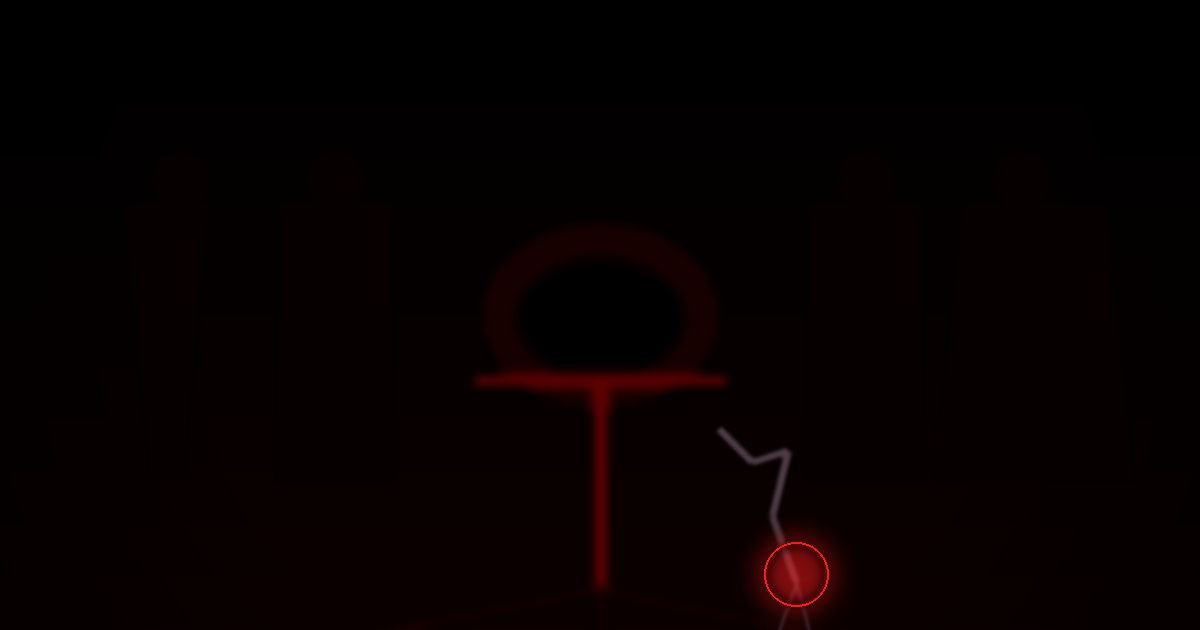
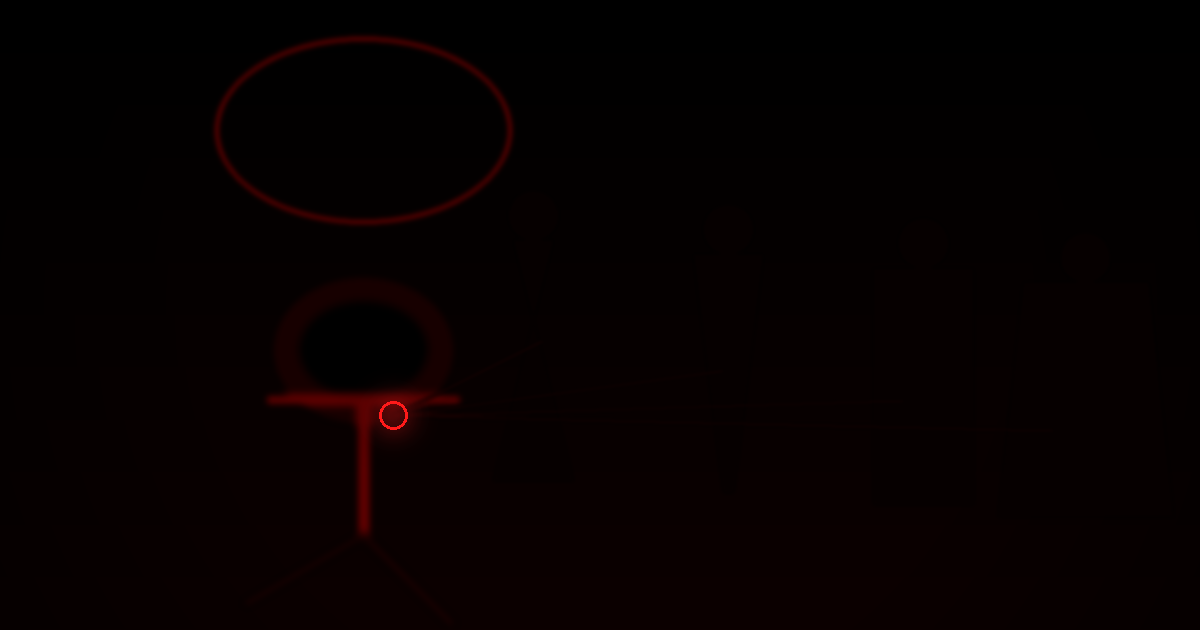
covers: mode A cover discipline - demo_shift gate, object_type repeat gate, kast object rebuilt from demo

diff --git a/feed/image_gen.py b/feed/image_gen.py
@@ -769,69 +769,58 @@ def render_object(concept: dict, seed: int, attempt: int = 0):
         g3.rectangle((cx - 34, cy - 132, cx + 6, cy - 108), fill=HOT_RED + (255,))
         img.alpha_composite(g3.layer)
 
-    elif 'тен' in obj:
-        # Разлом (Production Contract v1.0, направление A+D): микрофон стоит,
-        # но кабель перерезан и висит обрывком — «голос есть, связи нет».
-        # Четыре тени-характера остаются НЕЙТРАЛЬНЫМИ (каст ролей Edison Multi-Cast),
-        # единственный красный акцент — тонкое кольцо на ОБРЫВЕ кабеля, не на объекте:
-        # взгляд ищет смысл там, где связь порвана.
-        for i, (ox, lean) in enumerate(((-420, -28), (-265, 0), (265, 0), (420, 28))):
-            sg = RGBA()
-            gx = W / 2 + ox
-            top = 150
-            bot = 480
-            sx = gx - 58
-            ex = gx + 58 + lean
-            sg.polygon([(sx, top + 52), (ex, top + 52),
-                        (ex + lean, bot), (sx - lean, bot)], fill=SILH + (255,))
-            sg.ellipse(_obj_atom(gx - 30, top, 60, 60), fill=SILH + (255,))
-            sg.blur(2).alpha(0.95)
-            img.alpha_composite(sg.layer)
-        # микрофон: главный объект, в тёмно-красной гамме — НЕ должен давать
-        # ярких красных пикселей (по контракту красный сигнал допустим только
-        # в одном акценте). Все части объекта R<120; 255-красное — только кольцо на обрыве.
+    elif 'тен' in obj or 'роль' in obj:
+        # Каст ролей (mode A, объект из demo Edison Multi-Cast): микрофон слева,
+        # над ним компактное кольцо света — голос делится на роли. Четыре одинаковые
+        # тени-роли по правую половину веером от микрофона; ОДНА ближе (говорит),
+        # три дальше (слушают). Единственный красный акцент — точка разделения.
+        # Микрофон (слева от центра, R<120):
+        mx, my = cx - 230, cy + 10
         g = RGBA()
-        # колпак микрофона
-        g.ellipse(_obj_atom(cx - 120, cy - 220, 240, 190), fill=DEEP_RED + (255,))
-        g.ellipse(_obj_atom(cx - 84, cy - 182, 168, 120), fill=VOID + (255,))
-        # держатель
-        g.line([(cx - 128, cy - 60), (cx + 128, cy - 60)], SIGNAL_RED + (255,), width=14)
-        # стойка
-        g.line([(cx, cy - 60), (cx, cy + 150)], SIGNAL_RED + (255,), width=18)
-        # тренога
-        g.line([(cx, cy + 150), (cx - 260, cy + 200)], DEEP_RED + (255,), width=12)
-        g.line([(cx, cy + 150), (cx + 260, cy + 200)], DEEP_RED + (255,), width=12)
-        g.line([(cx, cy + 150), (cx, cy + 230)], DEEP_RED + (255,), width=12)
-        g.blur(5).alpha(0.95)
+        g.ellipse(_obj_atom(mx - 92, my - 170, 184, 150), fill=DEEP_RED + (255,))
+        g.ellipse(_obj_atom(mx - 64, my - 144, 128, 96), fill=VOID + (255,))
+        g.line([(mx - 98, my - 46), (mx + 98, my - 46)], SIGNAL_RED + (255,), width=12)
+        g.line([(mx, my - 46), (mx, my + 90)], SIGNAL_RED + (255,), width=16)
+        g.line([(mx, my + 90), (mx - 120, my + 160)], DEEP_RED + (255,), width=10)
+        g.line([(mx, my + 90), (mx + 90, my + 180)], DEEP_RED + (255,), width=10)
+        g.blur(4).alpha(0.95)
         img.alpha_composite(g.layer)
-        # перерезанный кабель: выходит из-за правого края микрофона, извивается вниз,
-        # обрывается; с обрыва свисают два тонких конца (рваные жилы)
-        cable = (80, 62, 74)
-        cg = RGBA()
-        cg.line([(cx + 118, cy - 12), (cx + 152, cy + 22)], cable + (255,), width=9)
-        cg.line([(cx + 152, cy + 22), (cx + 188, cy + 10)], cable + (255,), width=9)
-        cg.line([(cx + 188, cy + 10), (cx + 172, cy + 76)], cable + (255,), width=9)
-        cg.line([(cx + 172, cy + 76), (cx + 196, cy + 142)], cable + (255,), width=9)
-        # обрыв: два живых конца падают ниже точки разрыва
-        cg.line([(cx + 196, cy + 142), (cx + 210, cy + 196)], cable + (255,), width=4)
-        cg.line([(cx + 196, cy + 142), (cx + 178, cy + 192)], cable + (255,), width=4)
-        cg.blur(2).alpha(0.97)
-        img.alpha_composite(cg.layer)
-        # единственный красный акцент: тонкое кольцо на точке разрыва кабеля
-        rb = (cx + 196, cy + 134)
-        # мягкое свечение-ореол вокруг разлома (красный = только здесь)
-        rg0 = RGBA()
-        rg0.ellipse(_obj_atom(rb[0] - 46, rb[1] - 46, 92, 92), fill=HOT_RED + (255,))
-        rg0.blur(16).alpha(0.5)
-        img.alpha_composite(rg0.layer)
+        # компактное кольцо света над микрофоном (широкий венок — деталь-различитель)
         rg = RGBA()
-        rg.ellipse(_obj_atom(rb[0] - 32, rb[1] - 32, 64, 64),
-                   outline=SIGNAL_RED + (255,), width=6)
+        rg.ellipse(_obj_atom(mx - 150, my - 410, 300, 190),
+                   outline=SIGNAL_RED + (255,), width=8)
         rg.blur(3).alpha(0.85)
         img.alpha_composite(rg.layer)
+        # четыре тени-роли справа, веером (одинакового размера)
+        speakers = ((-30, -60), (150, -30), (330, 0), (480, 25))
+        for i, (ox, lean) in enumerate(speakers):
+            sg = RGBA()
+            gx = cx + ox
+            top = 190 + i * 14
+            bot = 480 + i * 12
+            sx = gx - 50
+            ex = gx + 50 + lean
+            sg.polygon([(sx, top + 50), (ex, top + 50),
+                        (ex + lean, bot), (sx - lean, bot)], fill=SILH + (255,))
+            sg.ellipse(_obj_atom(gx + lean / 2 - 25, top, 50, 50), fill=SILH + (255,))
+            sg.blur(2).alpha(0.95)
+            img.alpha_composite(sg.layer)
+        # лучи-роли: от точки разделения к каждой тени (R<120)
+        g2 = RGBA()
+        for i, (ox, lean) in enumerate(speakers):
+            gx = cx + ox
+            g2.line([(mx + 30, my - 30), (gx - 20, 340 + i * 30)], DEEP_RED + (255,), width=4)
+        g2.blur(2).alpha(0.95)
+        img.alpha_composite(g2.layer)
+        # единственный красный акцент: точка, где голос разделяется на роли
+        bp = (mx + 30, my - 30)
+        rg0 = RGBA()
+        rg0.ellipse(_obj_atom(bp[0] - 26, bp[1] - 26, 52, 52), fill=HOT_RED + (255,))
+        rg0.blur(16).alpha(0.5)
+        img.alpha_composite(rg0.layer)
         rgb = RGBA()
-        rgb.ellipse(_obj_atom(rb[0] - 32, rb[1] - 32, 64, 64),
-                    outline=HOT_RED + (255,), width=2)
+        rgb.ellipse(_obj_atom(bp[0] - 14, bp[1] - 14, 28, 28),
+                    outline=HOT_RED + (255,), width=3)
         img.alpha_composite(rgb.layer)
 
     elif 'микрофон' in obj or 'стойк' in obj:

diff --git a/publisher.py b/publisher.py
@@ -102,7 +102,8 @@ def load_items():
     return items
 
 
-REQ_CONCEPT_FIELDS = ('headline', 'demo', 'explain', 'consequence', 'visual_object', 'cover_prompt')
+REQ_CONCEPT_FIELDS = ('headline', 'demo', 'explain', 'consequence', 'visual_object', 'cover_prompt',
+                      'demo_shift', 'object_type', 'cover_test')
 
 # RED FIELD · Production Contract v1.0 (standards/red-field-production-contract.md).
 # Машино-проверяемые правила текстового контракта. Правка без согласования с
@@ -111,6 +112,9 @@ HEADLINE_MIN = 35
 HEADLINE_MAX = 75
 DEMO_MAX_SENTENCES = 1   # demo = ровно одно предложение
 EXPLAIN_MAX_SENTENCES = 2  # explain = не больше двух предложений
+DEMO_SHIFT_WORDS_MIN = 5   # demo_shift = что изменилось в новости, 5–12 слов
+DEMO_SHIFT_WORDS_MAX = 12
+COVER_TYPE_REPEAT_SPAN = 5  # тип объекта не чаще 1 раза в 5 постов
 
 
 def _sentence_count(s: str) -> int:
@@ -154,7 +158,9 @@ def concept_gate(guid: str, concepts: dict, link: str = ''):
     RED FIELD Production Contract v1.0 gates:
       1. all REQ_CONCEPT_FIELDS present and non-empty;
       2. source_resolves(link) = PASS;
-      3. machine-checkable text rules (headline length, sentence counts).
+      3. machine-checkable text rules (headline length, sentence counts);
+      4. cover discipline: demo_shift is 5-12 words, visual_object derived from
+         it, object_type not repeated within the last 5 slots.
     """
     c = concepts.get(guid) or {}
     missing = [k for k in REQ_CONCEPT_FIELDS if not (c.get(k) or '').strip()]
@@ -171,7 +177,41 @@ def concept_gate(guid: str, concepts: dict, link: str = ''):
         e = _sentence_count((c.get('explain') or '').strip())
         if e > EXPLAIN_MAX_SENTENCES:
             missing.append('qa:explain_sent={}'.format(e))
+        # cover discipline (RED FIELD mode A)
+        ds = (c.get('demo_shift') or '').strip()
+        dw = len(ds.split())
+        if dw < DEMO_SHIFT_WORDS_MIN or dw > DEMO_SHIFT_WORDS_MAX:
+            missing.append('qa:demo_shift_words={}'.format(dw))
+        vo = (c.get('visual_object') or '').strip()
+        if not any(w.strip(' .,!?;:()')
+                   for w in ds.lower().split()
+                   if w.strip(' .,!?;:()') in vo.lower()):
+            missing.append('cover:visual_object_not_from_demo_shift')
+        otype = (c.get('object_type') or '').strip()
+        if otype in _recent_object_types(guid, concepts):
+            missing.append('cover:object_type_repeat={}'.format(otype))
     return missing
+
+
+def _recent_object_types(exclude_guid: str, concepts: dict) -> set:
+    """Set of object_type used in the last 5 feed slots before exclude_guid."""
+    items = load_items()
+    ordered = sorted(items, key=lambda it: it.get('guid', ''))
+    idx = None
+    for i, it in enumerate(ordered):
+        if it.get('guid') == exclude_guid:
+            idx = i
+            break
+    if idx is None:
+        return set()
+    start = max(0, idx - 5)
+    types = set()
+    for it in ordered[start:idx]:
+        c = concepts.get(it.get('guid')) or {}
+        t = (c.get('object_type') or '').strip()
+        if t:
+            types.add(t)
+    return types
 
 
 def unset_line(path: str, line: str):

diff --git a/standards/red-field-production-contract.md b/standards/red-field-production-contract.md
@@ -57,11 +57,25 @@
 | `demo` | ✅ |
 | `explain` | ✅ |
 | `consequence` | ✅ |
+| `demo_shift` | ✅ |
 | `visual_object` | ✅ |
+| `object_type` | ✅ |
+| `cover_test` | ✅ |
 | `cover_prompt` | ✅ |
 | `source` | ✅ |
 
 Любое отсутствующее поле = отказ. Поле `source` хранится в строке фида (`src`), гейт — `source_resolves()`.
+
+### Поля обложки (mode A)
+
+- `demo_shift`: что именно изменилось в этой новости, **5–12 слов**. Это не тема поста,
+  а сдвиг: «каст ролей обгоняет один универсальный голос», «кабель перерезан — голос без канала».
+- `visual_object`: предмет/сцена **только из `demo_shift`**. Не из общего смысла «голос».
+- `object_type`: канонический тип объекта (микрофон, кабел, маска, ухо). Один и тот же тип
+  не чаще **одного раза в 5 постов**.
+- `cover_test`: строка, объясняющая, почему кадр нельзя переставить на соседний пост.
+
+Нет `demo_shift` → обложку не собирать (REJECT).
 
 ---
 
@@ -94,6 +108,10 @@
 
 RED FIELD остаётся стилем. Но каждая обложка обязана быть уникальной.
 
+> **Обложка = визуальный перевод `demo`.**
+> **Повторяющийся «фирменный» объект запрещён.**
+> **Тест перестановки между постами = брак.**
+
 ### Обязательные элементы
 
 - один главный объект;
@@ -103,10 +121,22 @@ RED FIELD остаётся стилем. Но каждая обложка обя
 ### Запрещено
 
 - повтор одинаковой композиции;
+- повтор того же `object_type` чаще 1 раза в 5 постов;
 - абстрактный красный градиент без объекта;
-- текст на изображении.
+- текст на изображении;
+- объект, который можно переставить на соседний пост без потери смысла;
+- единственный «фирменный» герой-предмет (микрофон — не логотип канала);
+- «AI gloss» — стоковая глянцевая картинка без контроля света.
 
-Обложка должна быть узнаваема даже в размере аватара Telegram.
+### Человеческий smoke-test (перед публикацией, 1 минута)
+
+1. Без заголовка понятно, *что сломалось / изменилось*?
+2. Красный указывает на смысл, а не на декор?
+3. Кадр про эту новость или «про голос вообще»?
+
+Два «нет» → обложку не публиковать.
+
+Обложка должна быть узнаваема даже в размере аватара Telegram (тест: читаема на телефоне за 1 секунду).
 
 ---
 
@@ -139,6 +169,9 @@ RED FIELD остаётся стилем. Но каждая обложка обя
 | `qa:headline_len=n` | `n` вне диапазона 35–75 |
 | `qa:demo_sent=n` | demo не одно предложение |
 | `qa:explain_sent=n` | explain больше двух предложений |
+| `qa:demo_shift_words=n` | demo_shift вне 5–12 слов |
+| `cover:visual_object_not_from_demo_shift` | visual_object не выведен из demo_shift |
+| `cover:object_type_repeat=T` | тип объекта повторяется в последних 5 постах |
 
 Список правил живёт рядом с `REQ_CONCEPT_FIELDS` и является частью контракта:
 правка без согласования с контрактом невозможна.
@@ -154,11 +187,15 @@ RED FIELD остаётся стилем. Но каждая обложка обя
   объяснение, доверие и действие работают как разные роли.
 - **Consequence**: Если голос начинает делиться на роли, бренд перестаёт выбирать
   «идеальный голос» и начинает проектировать собственное поведение.
-- **Visual Object**: Микрофон и четыре тени. Каждая тень отличается только позой.
-  Одна окружена тонким красным кольцом.
-- **Cover Prompt**: Black field. One studio microphone in the center. Four human
-  silhouettes cast different shadows around it. One shadow is marked by a thin red
-  ring. No text. High contrast. Quiet tension. Editorial photography, not illustration.
+- **Demo Shift**: каст ролей обгоняет один универсальный голос в слепом тесте.
+- **Visual Object**: Микрофон и четыре тени-роли: одна говорит, три слушают.
+  Красный — точка, где голос разделяется на роли.
+- **Object Type**: фон и микрофон с четырьмя ролями-тенями.
+- **Cover Test**: нельзя переставить на соседний пост — только про распределение ролей голоса.
+- **Cover Prompt**: Black field. One studio microphone stands centered under a thin ring of
+  light, its voice splits into four neutral human silhouettes around it: one speaks, three
+  listen. A single red glow marks the split of the voice into roles. No text. Quiet,
+  editorial photography.
 
 ---
 
@@ -167,8 +204,10 @@ RED FIELD остаётся стилем. Но каждая обложка обя
 Пост считается существующим только если одновременно выполнено всё:
 
 - `source_resolves()` = PASS;
-- все 6 полей концепта заполнены (`source` — через `src` фида);
-- обложка содержит уникальный объект;
+- все 9 полей концепта заполнены (`source` — через `src` фида);
+- `demo_shift` = 5–12 слов и `visual_object` выведен из него;
+- `object_type` не повторялся в последних 5 постах;
+- обложка содержит уникальный объект: визуальный перевод `demo`, не переставляемый на соседний пост;
 - первый абзац начинается с наблюдаемого факта;
 - следствие отвечает на вопрос «что теперь изменилось»;
 - текст можно проверить по исходному документу.
